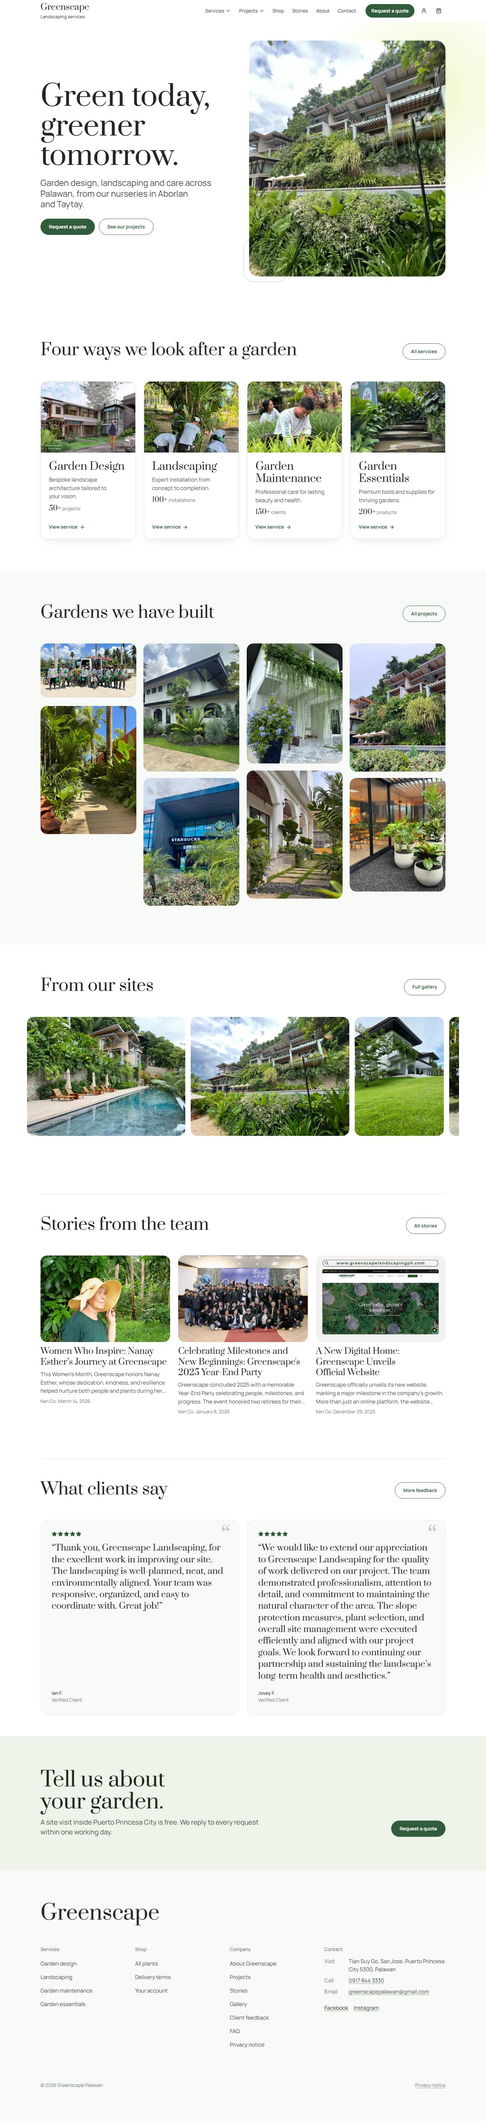
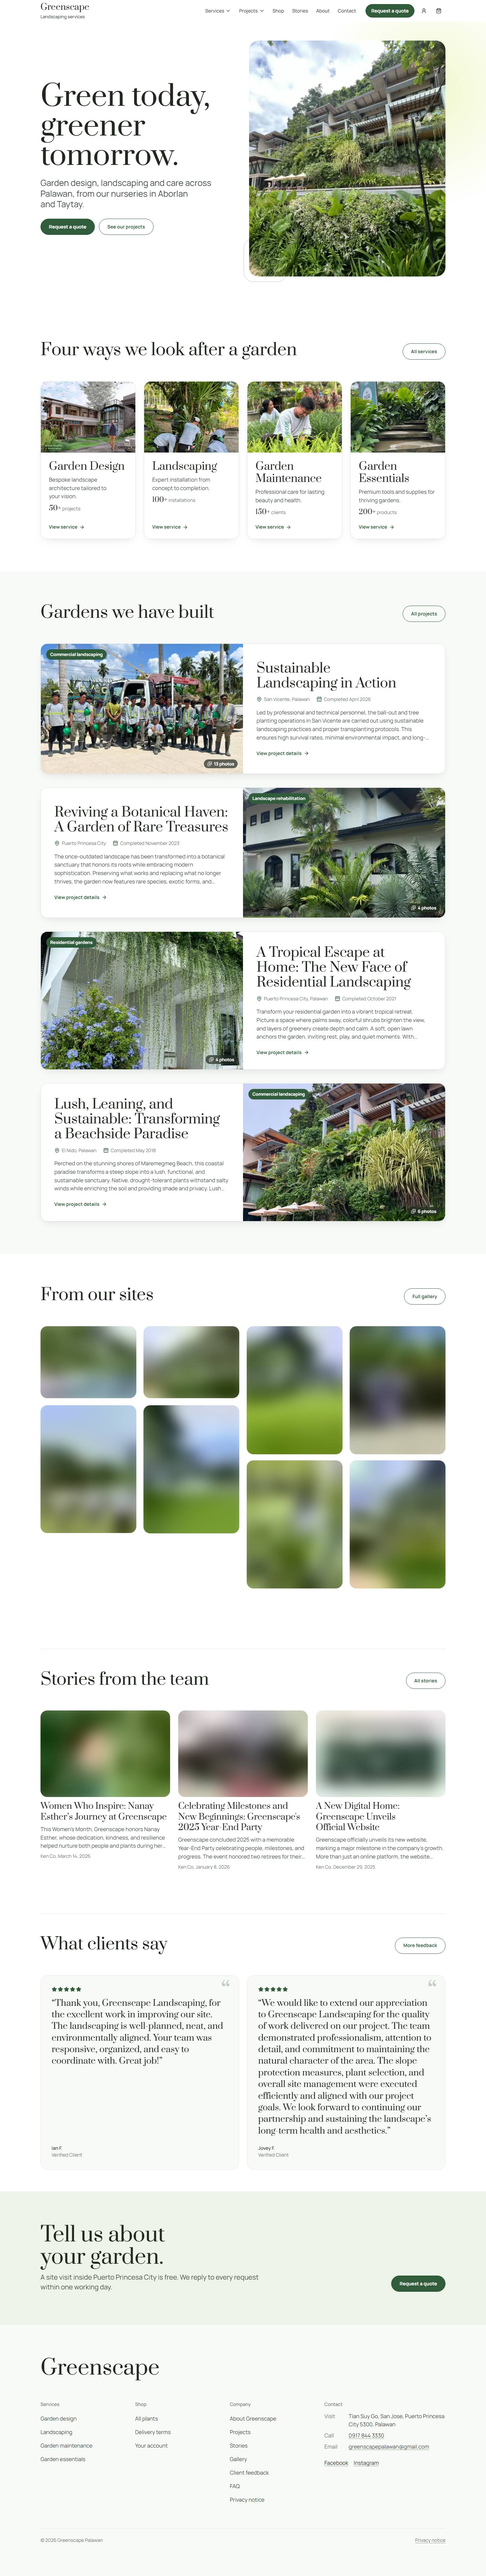
feat(home): split feature cards for projects, masonry for site photos
- "Gardens we have built": alternating split cards (photo with category
  pill and photo count; title, place, completion date, excerpt, View
  project details), modelled on the original site's featured projects
- "From our sites": Pinterest-style masonry with lightbox
- Checkout transaction waits up to 10 s for a pooled connection instead of
  failing the sale under load (Prisma default 2 s)
- e2e: CMS upload tests wait for hydration before choosing a file

diff --git a/apps/web/components/sections.tsx b/apps/web/components/sections.tsx
@@ -7,12 +7,7 @@ import { Reveal } from '@greenscape/ui/motion/reveal';
 import Link from 'next/link';
 import type { Section } from '@/lib/cms';
 import { cms } from '@/lib/cms';
-import type { CSSProperties } from 'react';
-import { projectCard } from '@/lib/gallery';
-import { ArticleCard, ServiceCard, TestimonialCard } from './cards';
-import { GalleryLightbox } from './gallery/gallery-lightbox';
-import { MasonryCard } from './gallery/masonry-card';
-import { MasonryGrid, MasonryItem, ratioOf } from './gallery/masonry-grid';
+import { ArticleCard, ProjectFeature, ServiceCard, TestimonialCard } from './cards';
 import { MasonryPhotos } from './gallery/masonry-photos';
 import { ContactDetails } from './contact-details';
 import { RichText } from './rich-text';
@@ -66,20 +61,19 @@ async function RenderSection({ s, i, pageTitle }: { s: Section; i: number; pageT
       );
     }
     case 'featuredProjects': {
-      // A small masonry: the featured projects first, topped up with the latest ones to 6–8 cards.
-      const [featured, latest] = await Promise.all([cms.projects({ featured: true, limit: s.limit }), cms.projects({ limit: 12 })]);
-      const items = [...featured, ...latest.filter((p) => !featured.some((f) => f.slug === p.slug))].slice(0, 8);
+      // Split feature cards, photo and story side by side, alternating sides down the page.
+      const items = await cms.projects({ featured: true, limit: s.limit });
       if (!items.length) return null;
       return (
         <Band band="deep" labelledBy={hid}>
           <SectionHeading id={hid} title={s.heading} action={linkButton('/projects', 'All projects', 'secondary')} />
-          <MasonryGrid label={s.heading}>
+          <div className="flex flex-col gap-8 md:gap-10">
             {items.map((p, k) => (
-              <MasonryItem key={p.slug} ratio={ratioOf(p.cover.width, p.cover.height)} index={k}>
-                <MasonryCard photo={projectCard(p)} parallax={k % 3 === 1} />
-              </MasonryItem>
+              <Reveal key={p.slug}>
+                <ProjectFeature p={p} flip={k % 2 === 1} />
+              </Reveal>
             ))}
-          </MasonryGrid>
+          </div>
         </Band>
       );
     }
@@ -89,16 +83,8 @@ async function RenderSection({ s, i, pageTitle }: { s: Section; i: number; pageT
       return (
         <Band labelledBy={hid}>
           <SectionHeading id={hid} title={s.heading} action={linkButton('/gallery', 'Full gallery', 'secondary')} />
-          {/* A film strip at the photos' natural proportions (one height, varying widths), scrolling sideways. */}
-          <GalleryLightbox label={s.heading} images={items.map((g) => ({ url: g.image.url, alt: g.image.alt, caption: g.caption, blurDataUrl: g.image.blurDataUrl }))}>
-            <ul aria-label={s.heading} className="-mx-4 flex snap-x snap-mandatory gap-3 overflow-x-auto px-4 pb-3 [--strip-h:15rem] [scrollbar-width:thin] md:-mx-10 md:gap-4 md:px-10 md:[--strip-h:22rem]">
-              {items.map((g, k) => (
-                <li key={g.image.url} className="shrink-0 snap-start" style={{ width: `calc(var(--strip-h) / ${ratioOf(g.image.width, g.image.height).toFixed(4)})` } as CSSProperties}>
-                  <MasonryCard photo={{ url: g.image.url, alt: g.image.alt, width: g.image.width, height: g.image.height, blurDataUrl: g.image.blurDataUrl }} lightboxIndex={k} count={items.length} sizes="(min-width: 48rem) 30rem, 70vw" />
-                </li>
-              ))}
-            </ul>
-          </GalleryLightbox>
+          {/* Pinterest-style masonry at the photos' natural proportions; opens the lightbox. */}
+          <MasonryPhotos label={s.heading} images={items.map((g) => ({ ...g.image, caption: g.caption }))} />
         </Band>
       );
     }

diff --git a/apps/web/components/cards.tsx b/apps/web/components/cards.tsx
@@ -1,5 +1,5 @@
 import { Photo } from '@greenscape/ui/components/photo';
-import { ArrowRight, Star } from 'lucide-react';
+import { ArrowRight, CalendarDays, Images, MapPin, Star } from 'lucide-react';
 import Link from 'next/link';
 import type { ArticleSummary, ProjectSummary, ServiceSummary, Testimonial } from '@/lib/cms';
 import { PROJECT_CATEGORIES, longDate, monthYear } from '@/lib/cms';
@@ -27,6 +27,42 @@ export function ProjectCard({ p, priority }: { p: ProjectSummary; priority?: boo
           </Link>
         </h3>
         {p.completedOn && <p className="text-sm text-muted">Completed {monthYear(p.completedOn)}</p>}
+      </div>
+    </article>
+  );
+}
+
+/**
+ * Featured project, split: the photo on one side (alternating with `flip`), the story on the other. The whole card is
+ * one link (the title is its name); place and date are a fact line with icons, never dot-joined.
+ */
+export function ProjectFeature({ p, flip, priority }: { p: ProjectSummary; flip?: boolean; priority?: boolean }) {
+  const category = PROJECT_CATEGORIES[p.category] ?? p.category;
+  return (
+    <article className="lift-card group relative grid min-w-0 overflow-clip rounded-[var(--radius-card)] border border-rule bg-paper shadow-soft md:grid-cols-2">
+      <div className={`relative ${flip ? 'md:order-2' : ''}`}>
+        <Photo src={p.cover.url} alt={p.cover.alt} blurDataUrl={p.cover.blurDataUrl} ratio="4 / 3" priority={priority} sizes="(min-width: 48rem) 40rem, 100vw" frameClassName="!rounded-none frame-shimmer h-full md:!aspect-auto md:min-h-[24rem]" className="lift-card-img" />
+        <span className="absolute top-4 left-4 rounded-pill bg-signal px-3 py-1.5 text-xs font-bold text-signal-ink shadow-soft">{category}</span>
+        {p.imageCount > 1 && (
+          <span className="absolute right-4 bottom-4 inline-flex items-center gap-1.5 rounded-pill bg-ink/70 px-2.5 py-1 text-xs font-semibold text-white backdrop-blur-sm">
+            <Images aria-hidden className="size-3.5" /> {p.imageCount} photos
+          </span>
+        )}
+      </div>
+      <div className="flex min-w-0 flex-col justify-center gap-4 p-6 md:p-10">
+        <h3 className="text-2xl md:text-3xl">
+          <Link href={`/projects/${p.slug}`} className="no-underline after:absolute after:inset-0 group-hover:text-signal">
+            {p.title}
+          </Link>
+        </h3>
+        <p className="flex flex-wrap gap-x-5 gap-y-1 text-sm text-muted">
+          {p.location && <span className="inline-flex items-center gap-1.5"><MapPin aria-hidden className="size-4 text-signal" />{p.location}</span>}
+          {p.completedOn && <span className="inline-flex items-center gap-1.5"><CalendarDays aria-hidden className="size-4 text-signal" />Completed {monthYear(p.completedOn)}</span>}
+        </p>
+        {p.excerpt && <p className="line-clamp-4 text-base text-ink-2">{p.excerpt}</p>}
+        <span aria-hidden className="mt-2 inline-flex items-center gap-1.5 text-sm font-semibold text-signal">
+          View project details <ArrowRight className="photo-card-arrow size-4" />
+        </span>
       </div>
     </article>
   );

diff --git a/tests/e2e/cms.spec.ts b/tests/e2e/cms.spec.ts
@@ -86,6 +86,7 @@ test('validation errors are shown on the fields', async ({ page }) => {
 
 test('media library: upload, describe and delete an image', async ({ page }) => {
   await page.goto(`${ADMIN}/media`);
+  await page.waitForLoadState('networkidle'); // the drop zone listens only once hydrated
   const name = `e2e-lawn-${randomUUID().slice(0, 6)}`;
   await page.getByTestId('dropzone').locator('input[type=file]').setInputFiles({ name: `${name}.png`, mimeType: 'image/png', buffer: PNG });
   await expect(page.getByText('1 image added to the library')).toBeVisible();
@@ -104,6 +105,7 @@ test('media library: upload, describe and delete an image', async ({ page }) => 
 
 test('a file that is not really an image is refused', async ({ page }) => {
   await page.goto(`${ADMIN}/media`);
+  await page.waitForLoadState('networkidle'); // the drop zone listens only once hydrated; a file set earlier is dropped
   await page.getByTestId('dropzone').locator('input[type=file]').setInputFiles({ name: 'fake.png', mimeType: 'image/png', buffer: Buffer.from('definitely not a png') });
   await expect(page.getByText(/^fake\.png: /)).toBeVisible();
 });

diff --git a/apps/api/src/modules/shop/orders.ts b/apps/api/src/modules/shop/orders.ts
@@ -121,7 +121,8 @@ export async function placeOrder(
       await reserve(tx, lines.filter((l) => l.tracked), o.id);
       await tx.cart.update({ where: { id: cart.id }, data: { status: 'CONVERTED' } });
       return o;
-    });
+      // Under load, wait for a pooled connection rather than failing the sale (Prisma's default wait is 2 s).
+    }, { maxWait: 10_000, timeout: 15_000 });
   } catch (err) {
     // Two submits with the same key raced: the loser returns the winner's order.
     if (err instanceof Prisma.PrismaClientKnownRequestError && err.code === 'P2002') {

diff --git a/docs/design/redesign-white-botanical.md b/docs/design/redesign-white-botanical.md
@@ -47,8 +47,8 @@ Prata (serif) headings over Manrope (sans) body are unchanged. Radii: 20px photo
 |---|---|
 | `/projects` (the portfolio) | Masonry of every project's cover, linking to the project; category and place filters |
 | `/gallery` (project gallery) | All 80 photos: 72 project photos plus 8 curated gallery photos, with project title, category and place. Category and place filters, lightbox, and **24 at a time** with a "Show more photographs" link (server pagination via `?show=`, so the first request never loads the whole library and earlier photos keep their place) |
-| Home, "Gardens we have built" | Small masonry: the featured projects first, topped up with the latest to 8 cards |
-| Home, "From our sites" | A sideways film strip at natural proportions (one height, varying widths), opening the lightbox. A second masonry right below the first would repeat itself |
+| Home, "Gardens we have built" | Split feature cards (`ProjectFeature` in `cards.tsx`): the photo on one side with a category pill and a photo count, alternating sides. The other side has the title, place and completion date with icons, a 4-line excerpt and "View project details →". The whole card is one link; it lifts on hover and stacks on phones. Featured projects only (CMS `limit`). Shown on owner request, modelled on the original site's featured-projects layout |
+| Home, "From our sites" | Masonry with lightbox (`MasonryPhotos`): the curated gallery photos at natural proportions (changed from a sideways film strip on owner request) |
 | Project pages, CMS `photos` sections | `MasonryPhotos` with lightbox |
 | `/stories` | Editorial: the newest story as a large lead, the rest in an aligned grid. Titles stay easy to scan, so it is not masonry |
 | `/shop` | Aligned product grid (comparison and buying) |
